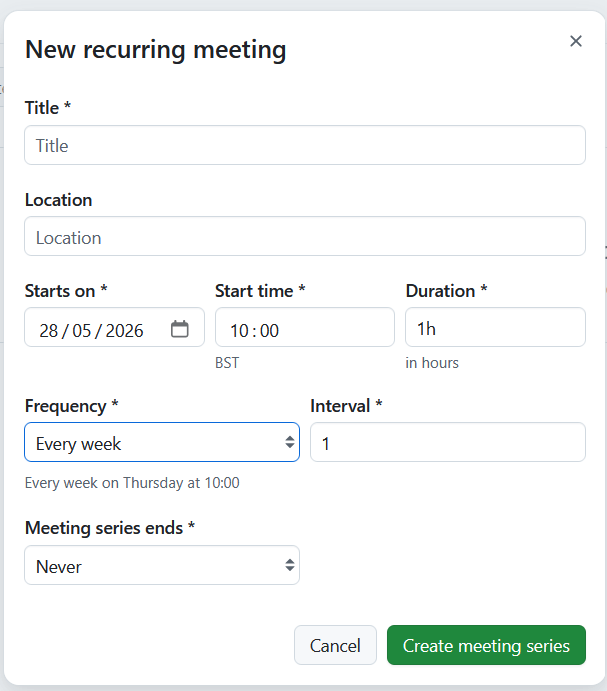
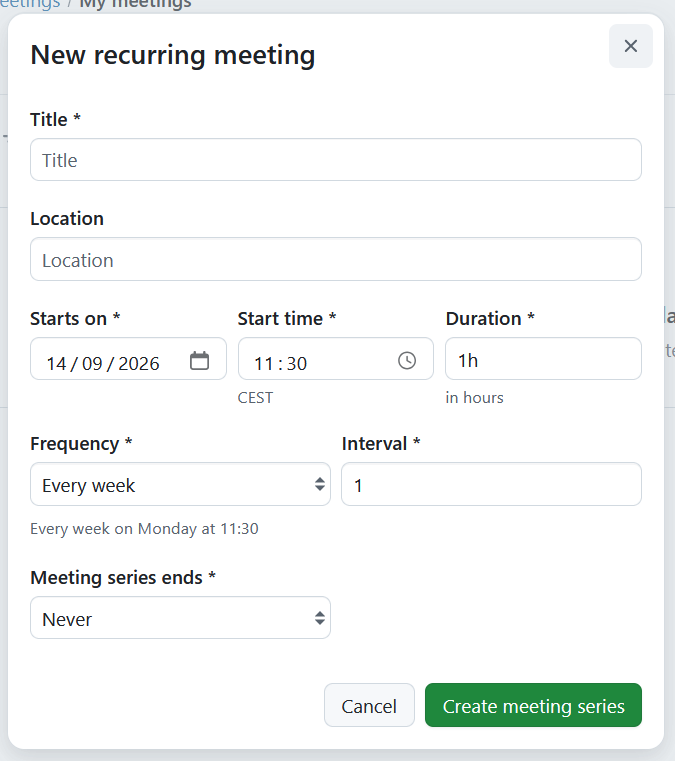
[DOCU-885] 17.9 Meetings changes  https://community.openproject.org/wp/DOCU-885
[DOCU-885] 17.9 Meetings changes

https://community.openproject.org/wp/DOCU-885

diff --git a/docs/user-guide/meetings/recurring-meetings/README.md b/docs/user-guide/meetings/recurring-meetings/README.md
@@ -31,9 +31,13 @@ To create a new recurring meeting, click the green **+ Meeting** button in the u
 
 ![A button to create recurring meetings in OpenProject](openproject_userguide_meetings_recurring_meeting_button.png)
 
-Enter your meeting's title, location, start and end date and time, duration, frequency and interval. Note that if you are creating a meeting from a global module you will first need to select a project to which the meeting belongs.
+Enter your meeting's title, location, start and end date and time, duration, frequency and interval. Note that if you are creating a meeting from a global module you will first need to select a project to which the meeting belongs. 
 
 ![Form to create recurring meetings in OpenProject](openproject_userguide_meetings_recurring_meeting_default_form.png)
+
+> [!NOTE]
+>
+> The date is by default set to the present day, while the start time is automatically rounded up to the next half-hour.
 
 > [!TIP] 
 > Duration can be entered both in hours and minutes. For example for a meeting that should last for 1.5 hours, you can enter: 

diff --git a/docs/user-guide/meetings/one-time-meetings/README.md b/docs/user-guide/meetings/one-time-meetings/README.md
@@ -98,6 +98,10 @@ If you are using (reusable meeting templates)(#meeting-templates-enterprise-add-
 > - 90min
 > - 1:30
 
+> [!NOTE]
+>
+> The date is by default set to the present day, while the start time is automatically rounded up to the next half-hour.
+
 Click the **Create meeting** button to save your changes. A new meeting will be created. It will initially be in **draft mode**, as indicated by the status message and the corresponding  banner. You can then proceed to add more details to the meeting.
 
 ### Meeting draft mode 
